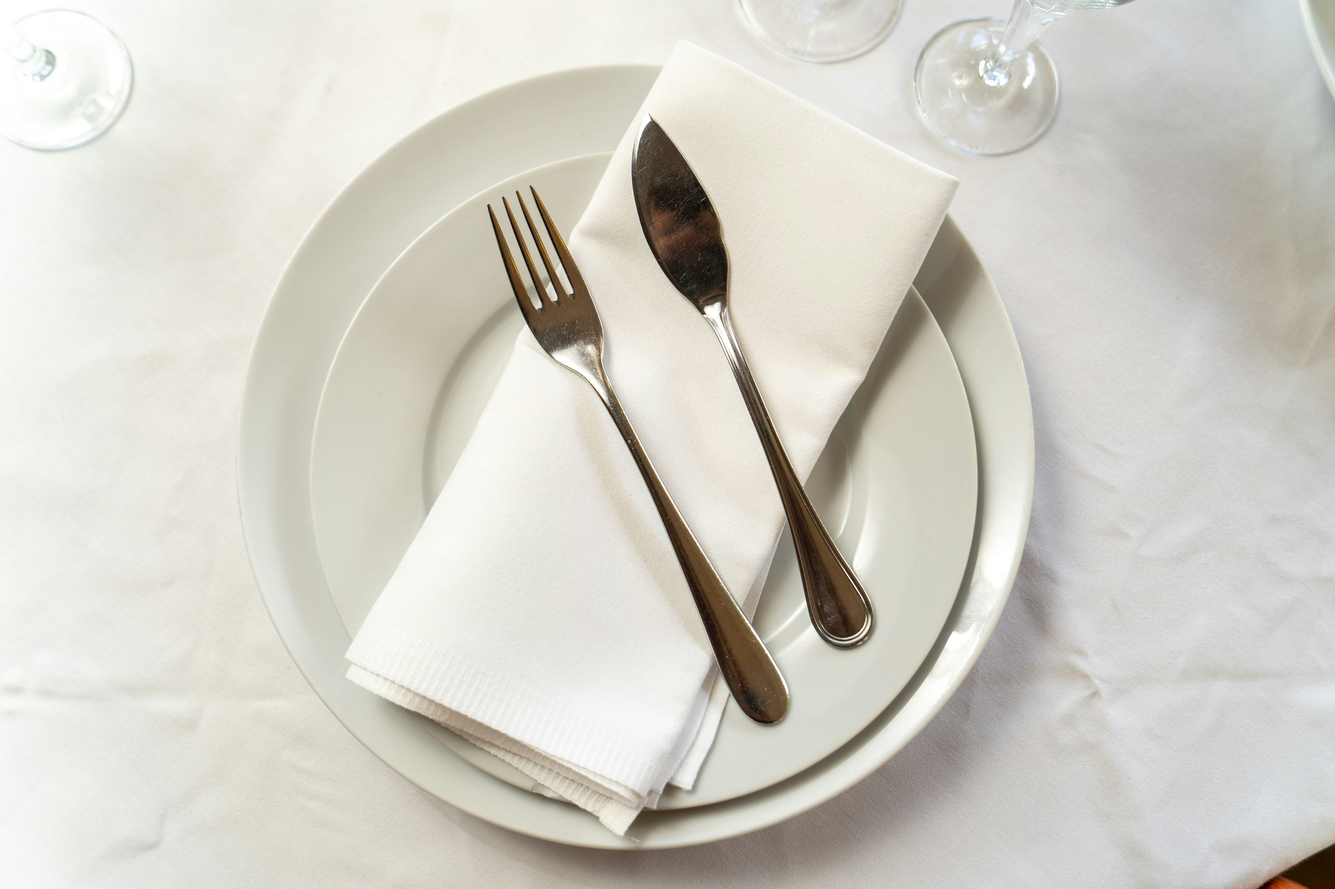
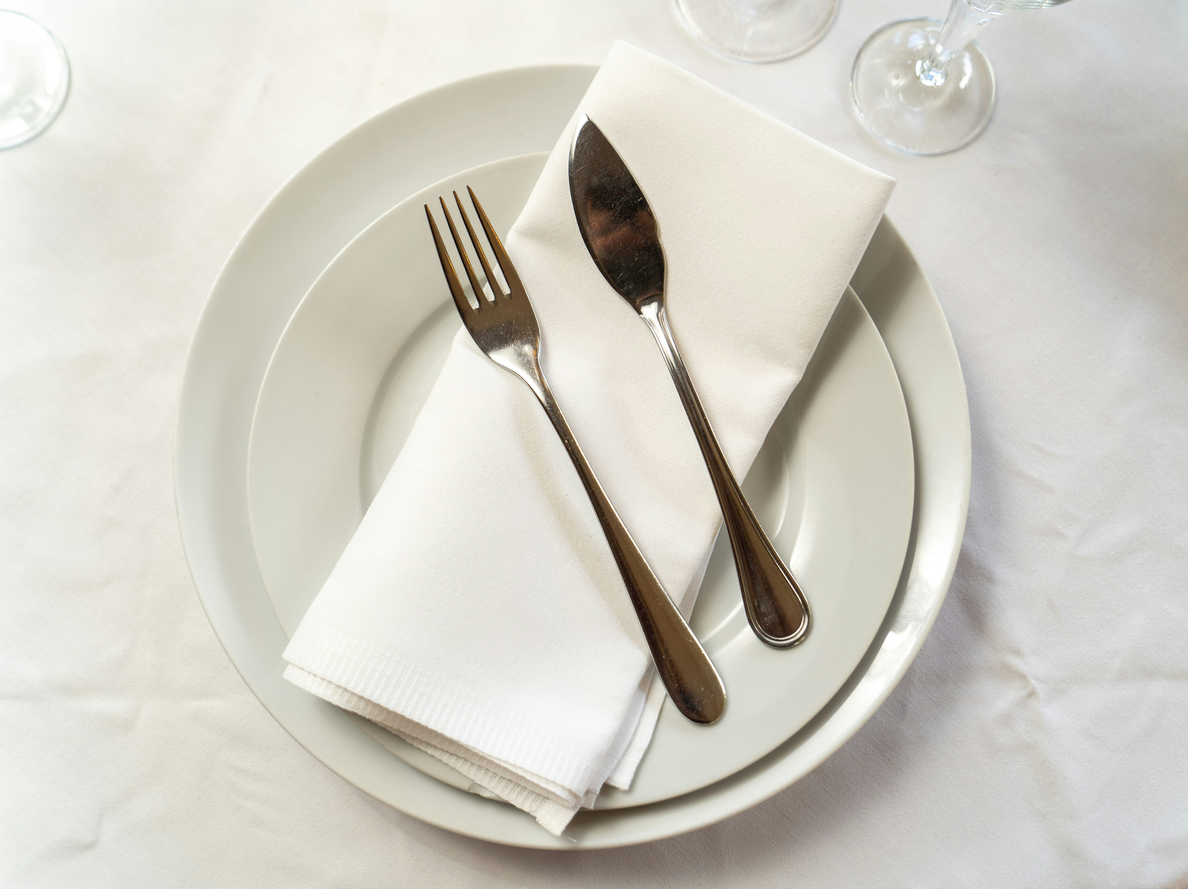
Cropped an image and added border radius to images and divs.

diff --git a/style.css b/style.css
@@ -136,7 +136,7 @@ body{
     margin: auto;
     width: 60%;
     border: 5px solid black;
-    border-radius: 10px;
+    border-radius: 20px;
     background-color: #e0bb4d;
     margin-top: 50px;
     margin-bottom: 50px;
@@ -166,6 +166,7 @@ body{
     float: right;
     width: 100px;
     padding: 10px;
+    border-radius: 20px;
 }
 
 .meal-items-drink{
@@ -182,6 +183,7 @@ body{
     position:relative; 
     overflow:hidden;
     margin-bottom: 30px;
+    border-radius: 20px;
 }
 
 .meal-info h1{
@@ -224,8 +226,9 @@ body{
     width: 70%;
     margin: auto;
     display: block;
-    border-radius: 10px;
+    border-radius: 20px;
     margin-top: 50px;
+    padding: 10px;
 }
 
 .button{
@@ -272,6 +275,7 @@ body{
     margin: auto;
     margin-top: 30px;
     padding-bottom: 10px;
+    border-radius: 30px;
 }
 
 /*=================== MEDIA QUERY ===================*/
